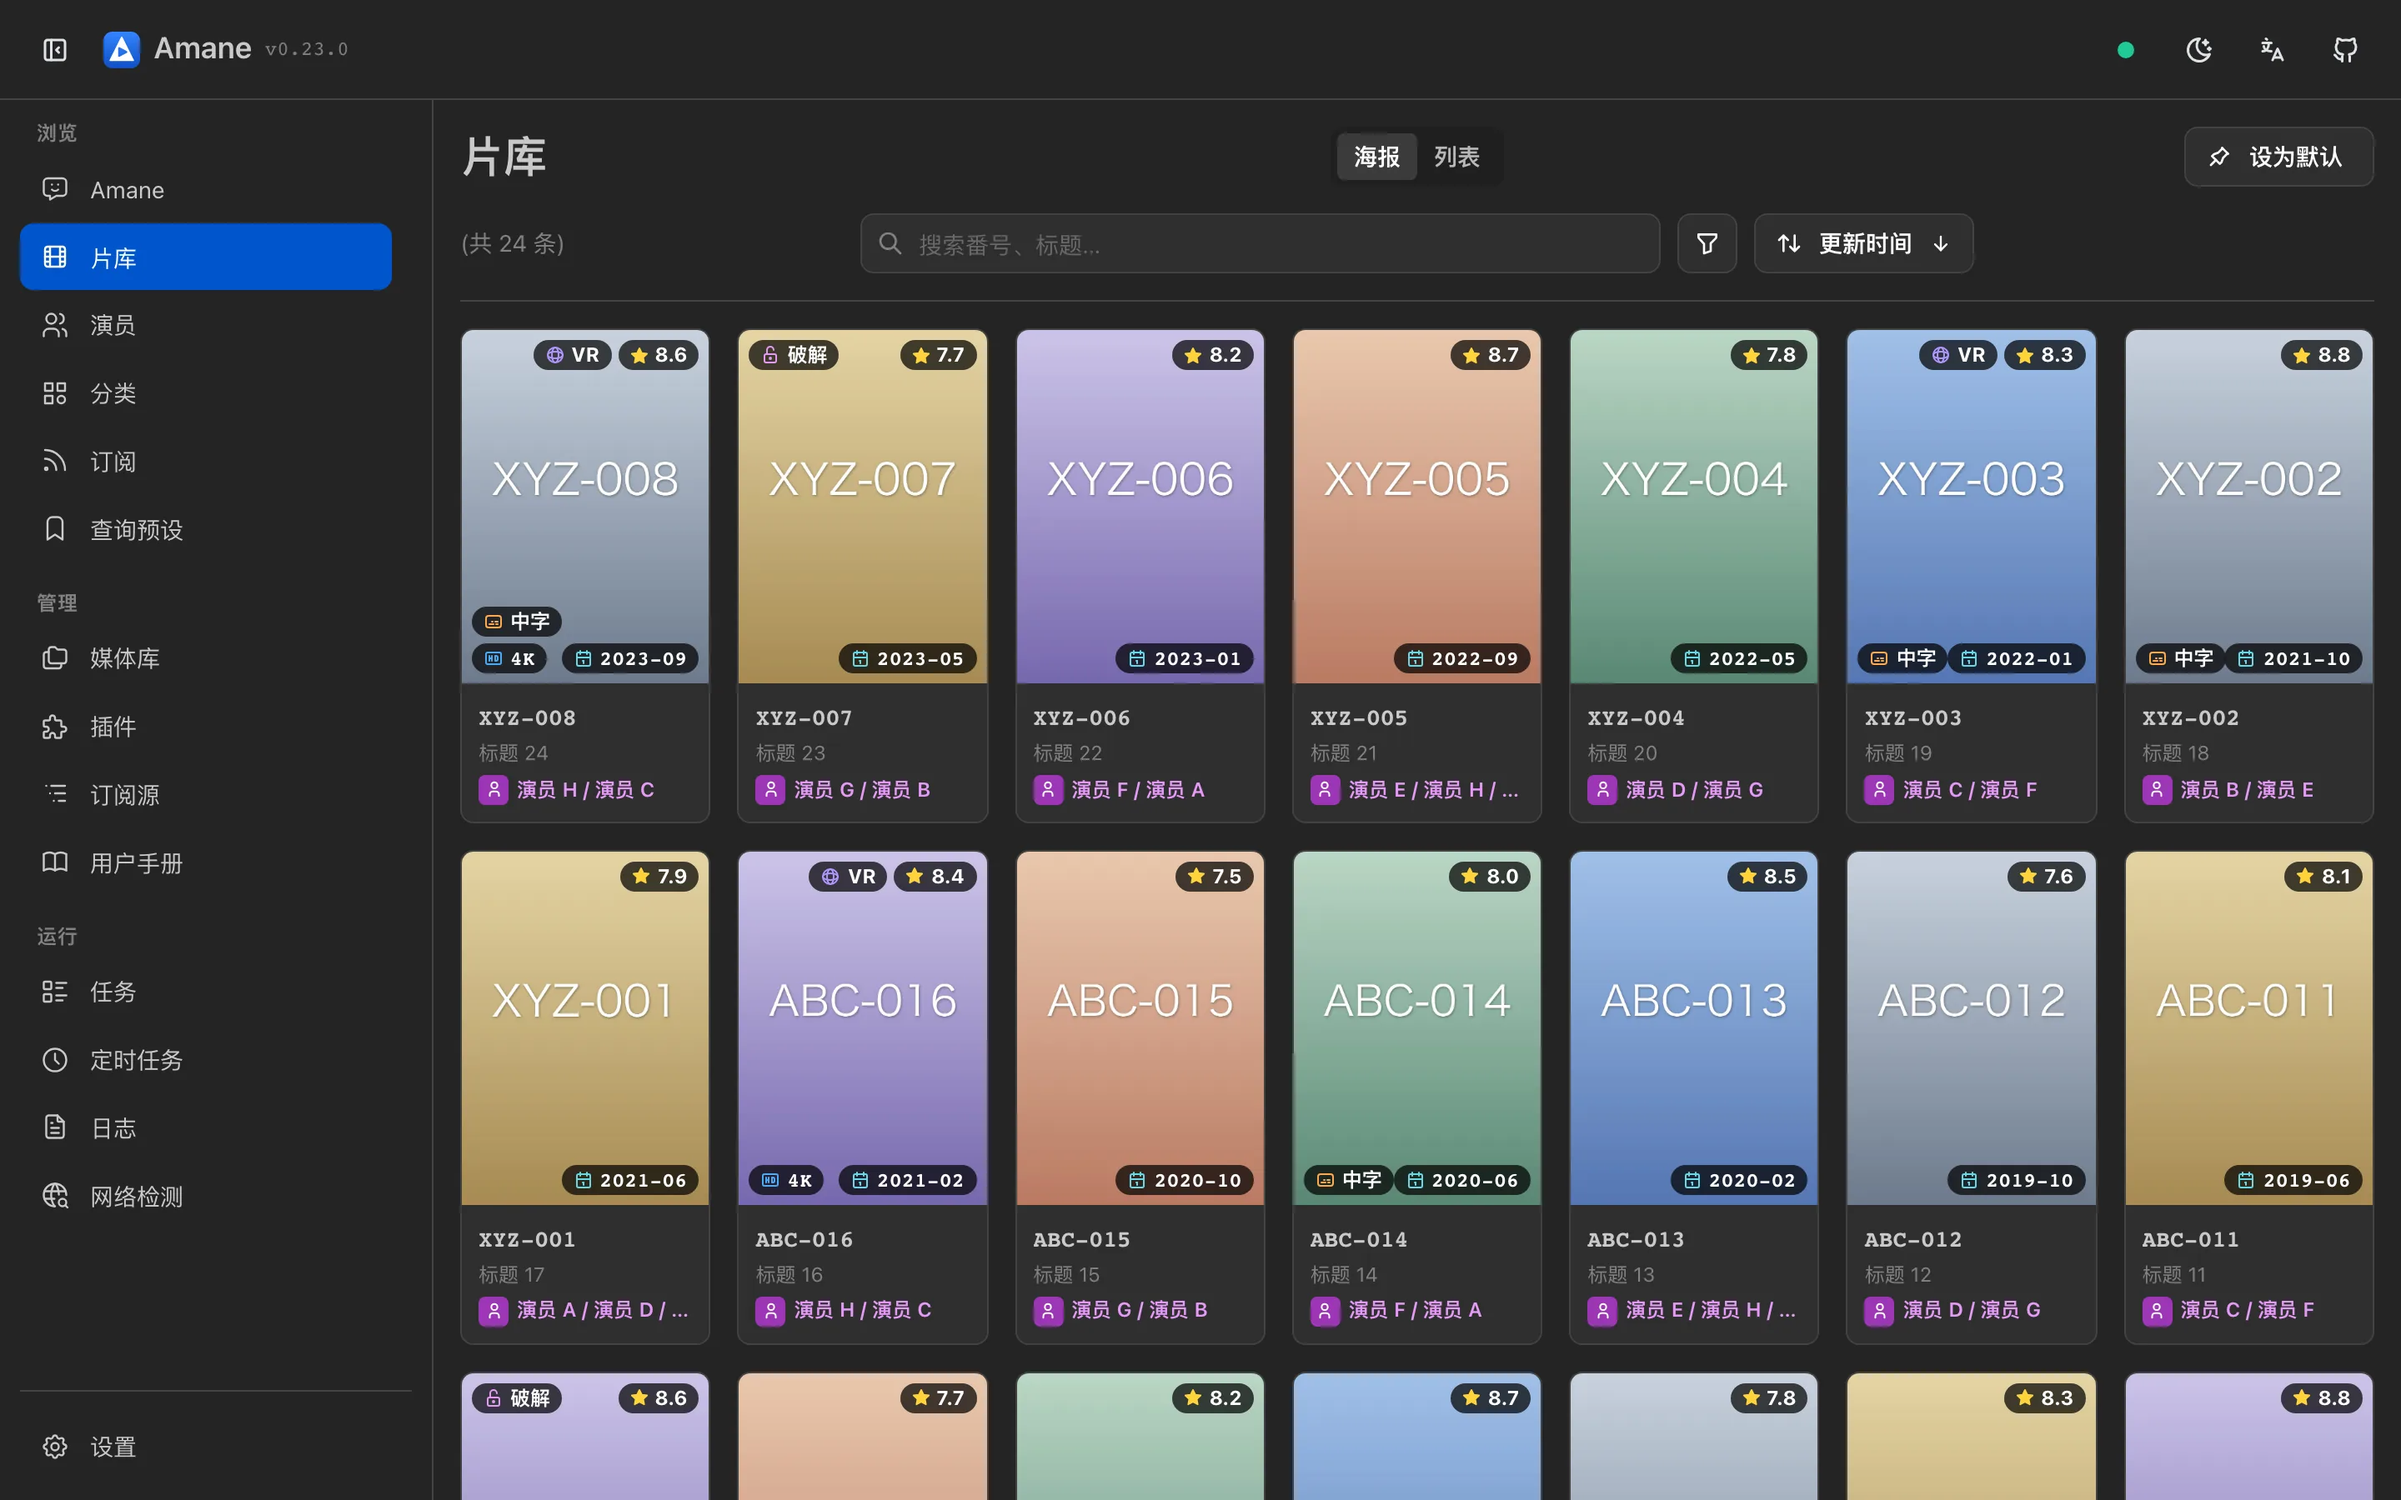
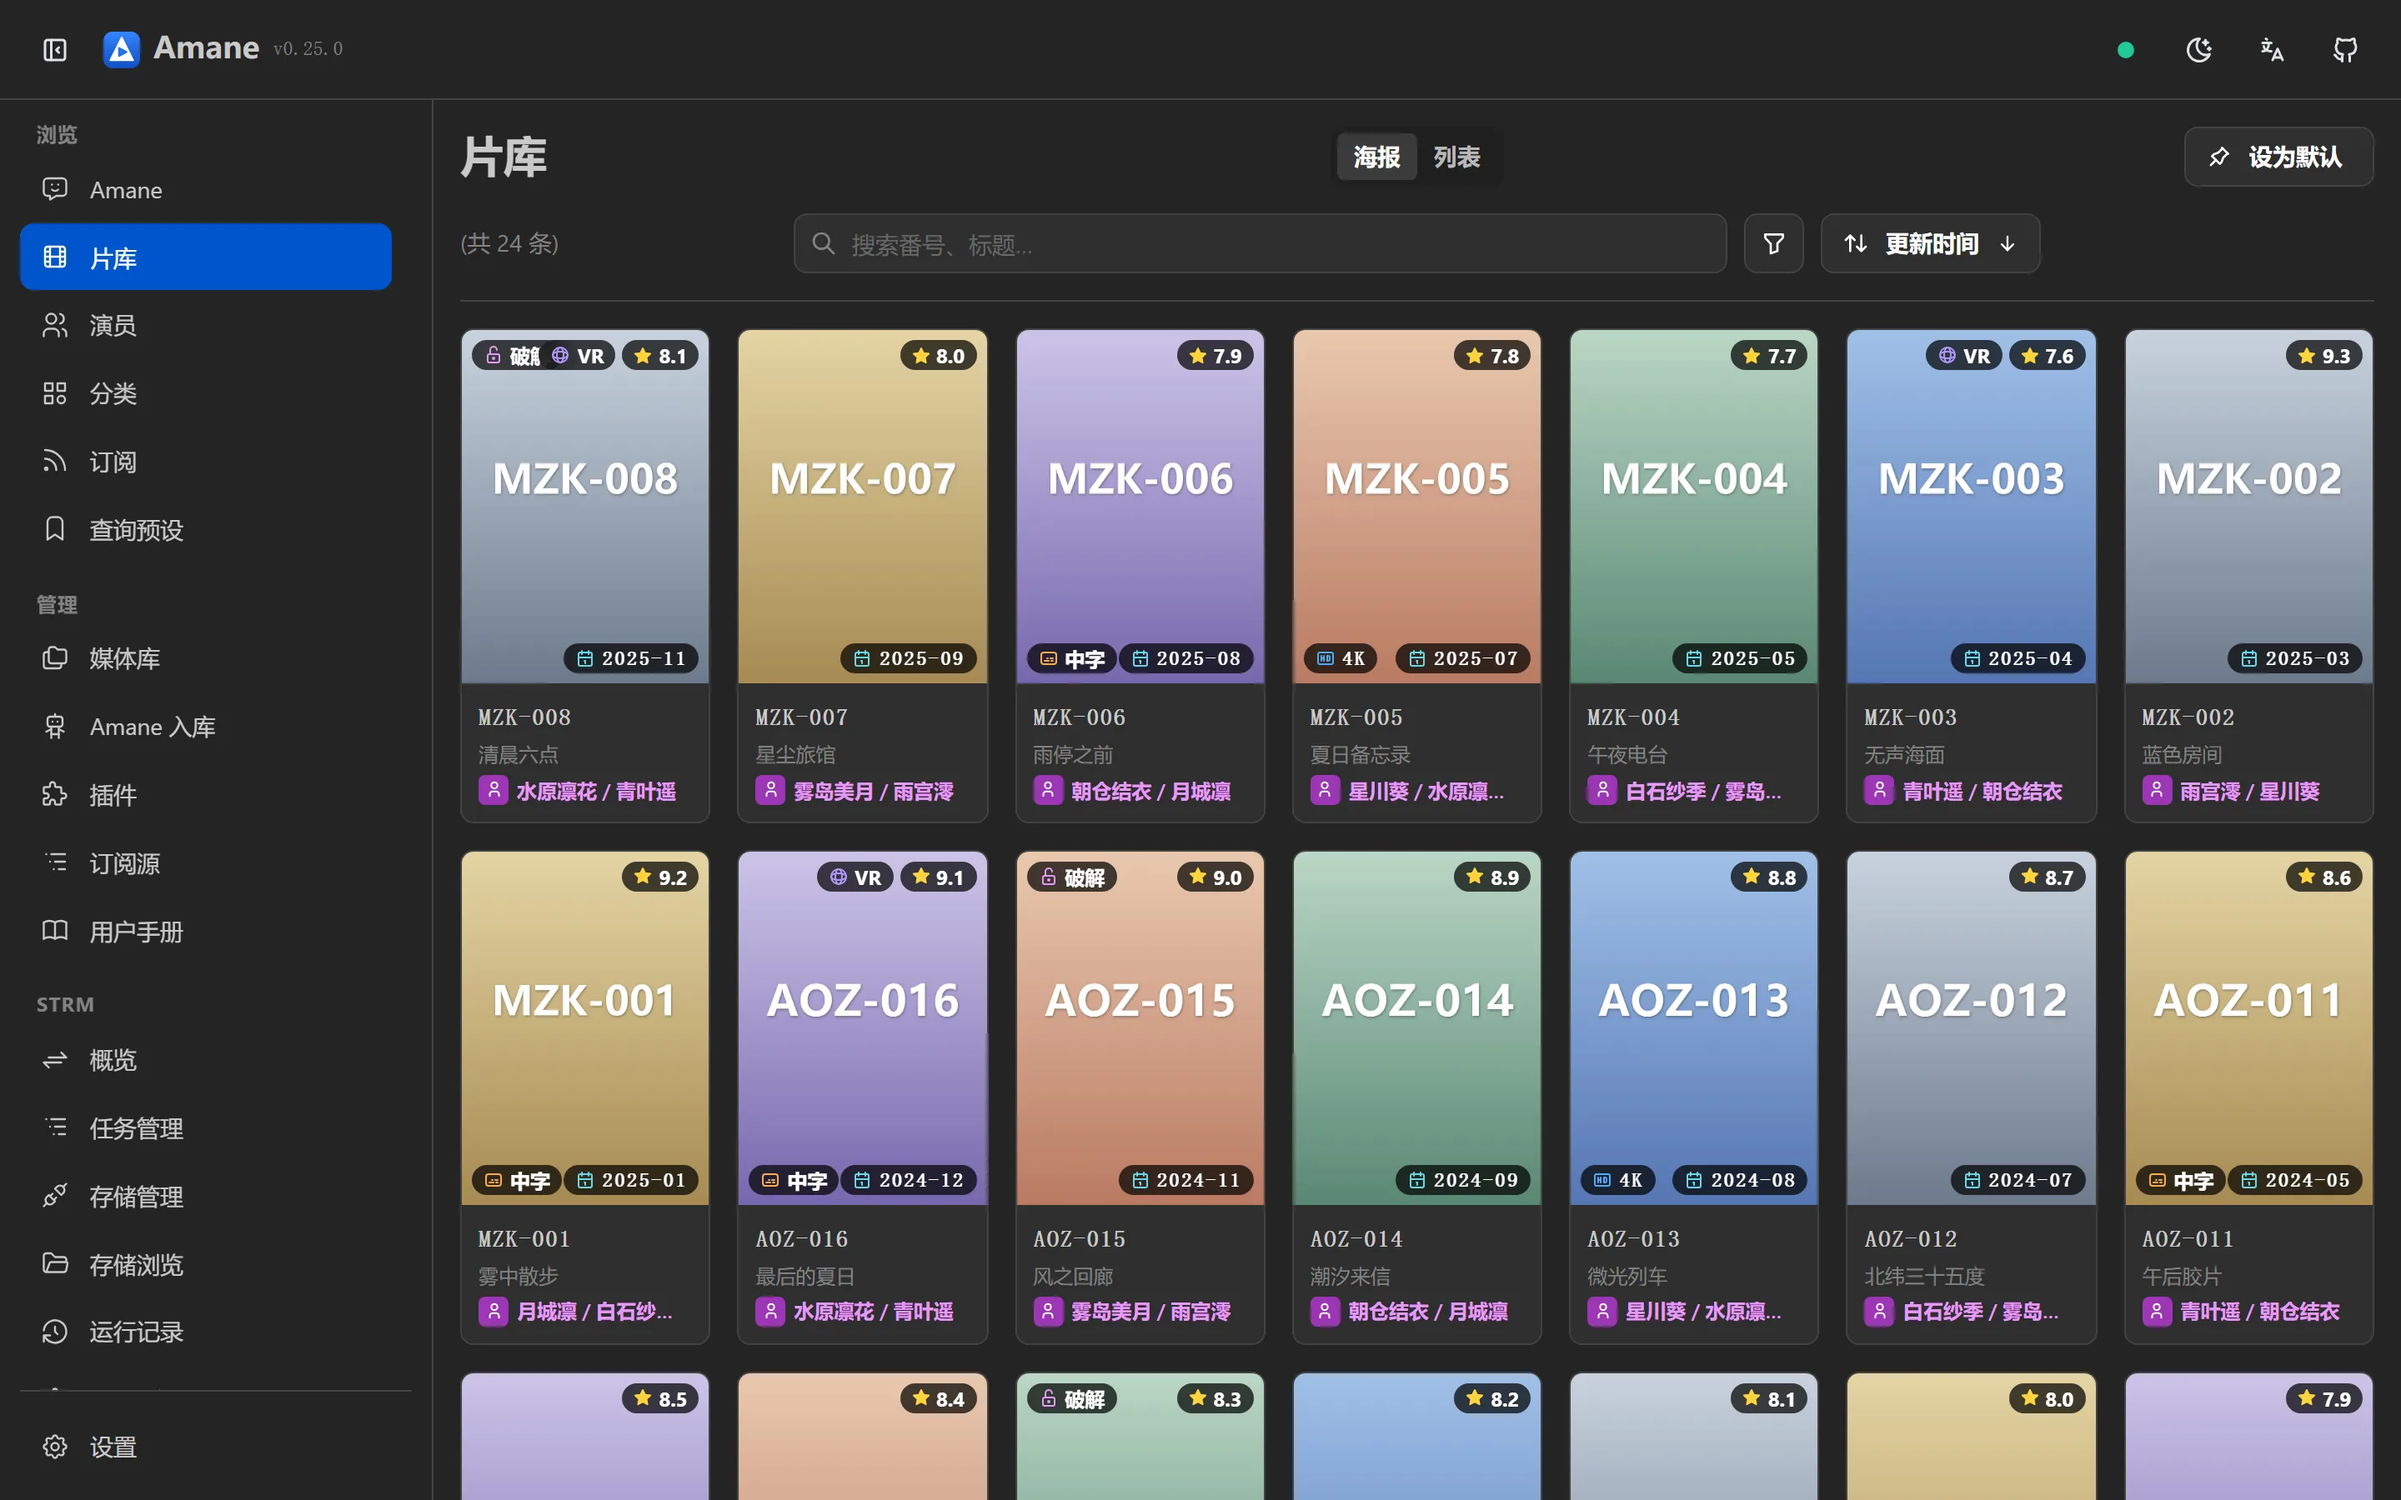
docs: add project screenshots and upstream differences

diff --git a/docs/differences.md b/docs/differences.md
@@ -1,0 +1,138 @@
+# 与上游原版的主要区别
+
+本发行版以 Amane 上游 `v0.25.0` 为基础，并持续同步上游更新；在此基础上增加了面向 115 入库、STRM、播放、整理和个人媒体库管理的功能。
+
+> 本文截图使用完全虚构的影片、演员、制作商、评分和评论数据，仅用于展示界面。
+
+## 概览
+
+| 方向 | 上游原版 | 本发行版 |
+|---|---|---|
+| 115 入库 | 基础连接和文件处理 | 认证、浏览、已有文件导入、离线下发、远端整理、多库路由和完成状态跟踪的完整链路 |
+| STRM | 基础指针生成 | 独立连接 / 计划 / 运行域、运行日志、TMDB 识别、批量改名、撤销、终止与残留清理 |
+| 媒体修正 | 常规元数据编辑与整理 | 发布标记、条目类型、远端路径、本地 STRM、图片和 Emby 映射的一致性修正 |
+| 播放与字幕 | 由媒体服务器负责播放 | STRM 直连播放、Emby 302 网关、字幕搜索 / 预览 / 加载 / 下载 |
+| 数据源 | 上游默认来源 | 增加 JavDB App API、官方无码来源、演员头像缩略图缓存和多翻译源回退 |
+| 界面 | 通用设置界面 | 媒体库主从式工作台、手动排序、STRM 工作台、任务日志终端 |
+
+## 1. 115 / Amane 入库
+
+本发行版把 115 入库从单点接口扩展为完整工作流：
+
+- 115 登录、二维码认证和连接状态管理
+- 文件浏览、目录快照、已有文件批量导入
+- 115 离线任务创建、重试、删除和状态分组
+- 多媒体库路由
+- 按媒体库配置的文件夹、文件名和 FC2 专用模板
+- 远端整理、重命名、STRM 生成和 Emby 刷新
+- 任务失败、终止和清理后的收尾状态
+- 在“Amane 入库”页面集中管理入库任务和媒体库刷新
+
+![Amane 入库设置](../assets/screenshots/amane-settings.webp)
+
+入库任务页集中展示阶段、来源、进度和事件入口，终端日志用于跟随入库、整理、STRM 生成与 Emby 刷新的完整过程。
+
+![入库任务](../assets/screenshots/acquisition-tasks.webp)
+
+![终端日志](../assets/screenshots/acquisition-terminal.webp)
+
+## 2. STRM 管理与批量改名
+
+STRM 在本发行版中是一个独立功能域，而不只是整理任务的附属产物：
+
+- 多存储连接：115、OpenList、WebDAV、文件系统
+- 连接、同步计划、运行记录和逐条日志
+- 增量、镜像、重建、重写和预览模式
+- 已有 `.strm` 接管、残留清理和远端缺失检测
+- 运行中可以终止任务
+- 批量改名支持模板、正则、序号和 TMDB 识别
+- 改名先预览，再分两阶段应用；已执行的改名可以撤销
+- 显示改名会影响哪些同步计划，避免直接破坏现有指针
+- STRM 直连播放和 Emby 302 网关
+
+![STRM 概览](../assets/screenshots/strm-overview.webp)
+
+![STRM 运行记录](../assets/screenshots/strm-runs.webp)
+
+存储浏览支持目录分层查看，并把批量改名、影视识别等操作放在同一工作台。
+
+![存储浏览](../assets/screenshots/storage-browse.webp)
+
+## 3. 媒体标记修正与整理
+
+“修正标记与类型”会同时处理逻辑记录与磁盘产物：
+
+- 修改发布标记，例如 `C`、`4K`、`VR`、`LTX`、`破解`、`流出`
+- 修正有码 / 无码 / 欧美 / FC2 等条目类型
+- 更新 115 远端文件名和路径
+- 同步本地 STRM、NFO、图片和附属文件
+- 重新生成图片水印角标
+- 更新本地与远端映射，必要时修复缺失的 STRM 关系
+- 支持单条和批量预检，先展示目标路径与冲突再执行
+
+另外增加了独立的 LTX 标记和水印，与“破解”区分；也支持按媒体库关闭海报裁切。
+
+## 4. 播放与字幕
+
+除把 NFO、图片和字幕写给 Emby / Jellyfin 外，本发行版还增强了播放侧能力：
+
+- STRM 直连播放
+- Emby 302 网关
+- 播放页字幕搜索与结果预览
+- 从字幕来源加载字幕
+- 下载字幕到媒体目录
+- 自动匹配本地同名字幕
+- 字幕位置、字号等显示调整
+- 按视频文件与字幕标记配对，避免多分集影片错挂字幕
+
+具体链路分为三种：
+
+- **STRM 直连播放**：详情页请求 STRM 播放端点，Amane 返回 302，浏览器直接跟随到 STRM 内写入的正片地址，Amane 不转发媒体字节。
+- **Emby 302 网关**：Emby 请求网关地址时，Amane 返回 302 到真实播放地址，适合能跟随重定向的客户端。
+- **反向代理回退**：客户端没有 User-Agent，或播放器不跟随 302 时，切换为代理模式，由 Amane 转发媒体字节。
+
+![STRM 302 正片播放](../assets/screenshots/playback.webp)
+
+![播放与网关设置](../assets/screenshots/strm-playback-settings.webp)
+
+## 5. 数据源、翻译与演员
+
+本发行版新增或强化：
+
+- JavDB App API 作为独立刮削来源
+- 官方无码来源
+- 多翻译源回退：Google、Bing、DeepL
+- 标题、剧情、演员名等文本字段的翻译覆盖
+- JavDB API 演员资料来源
+- 演员头像缩略图缓存，减少重复下载和大图占用
+- 演员推送使用已落盘头像，不额外请求远端大图
+
+> Emby / Jellyfin 演员资料与头像推送、语义检索本身来自上游 `v0.25.0`，不是本发行版的独有功能；本发行版主要增加了演员来源和头像缓存方面的增强。
+
+## 6. 界面与性能
+
+- 媒体库列表改为紧凑主从布局，并支持拖拽或箭头手动排序
+- 媒体库刷新入口合并到 Amane 入库工作流
+- 任务列表支持 STRM 运行事件、入库详情和持续跟随的日志终端
+- 批量改名、媒体修正和 STRM 同步都有专用任务结果展示
+- 优化 SQLite 常用查询、Watcher 子树查询和 115 目录缓存
+- 115 文件浏览使用分层缓存，减少重复远端扫描
+
+![任务中心](../assets/screenshots/tasks.webp)
+
+![影片详情](../assets/screenshots/movie-detail.webp)
+
+![演员详情](../assets/screenshots/actor.webp)
+
+## 保持不变的基础
+
+以下能力与上游保持同一设计方向：
+
+- 多来源字段聚合与字段级优先级
+- 原始站点快照、本地 SQLite 和资源目录
+- 字段锁定、来源对比、分类和用户标签
+- 任务树、订阅、定时任务和 AI 智能体
+- Emby / Jellyfin NFO、图片、字幕和演员推送
+- 语义索引与检索
+
+本发行版会继续同步上游更新，并在同步后重新验证上述扩展功能。

diff --git a/docs/README.md b/docs/README.md
@@ -6,6 +6,7 @@
 |---|---|
 | [安装与升级](installation.md) | Docker、Windows、macOS、Android、首次登录、升级与备份 |
 | [首次使用](quickstart.md) | 配置媒体库、提交刮削、查看结果、接入 Emby / Jellyfin |
+| [与上游原版的主要区别](differences.md) | 115 入库、STRM、字幕、数据源和界面差异 |
 | [Packages 与镜像发布](packages.md) | GitHub Packages、GHCR 镜像、仓库关联与发布流程 |
 | [故障排查](troubleshooting.md) | 镜像、登录、权限、刮削和媒体服务器问题 |
 
